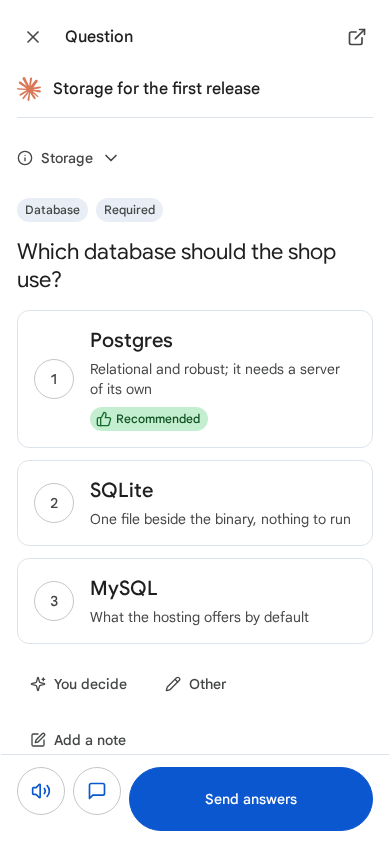
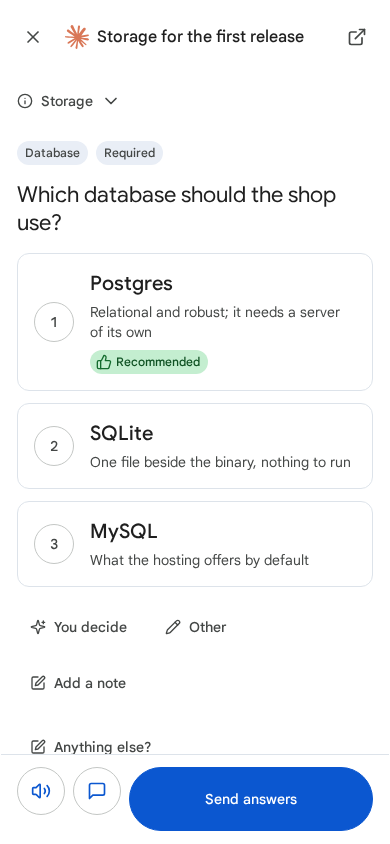
Chat and Tests: a roll never shows a line cut by an edge, the empty composer has no scrollbar, the question dialog names its chat, Change for this run opens no picker, Attach asks for no microphone
Found by run 6 of the device tests.

B-21 (Windows Chrome): the status line's fade led its glide. The new
line faded in on --ds-ease-out while it glided on --ds-ease-in-out, so
18 ms into a roll it was half there a whole line below its place, its
glyphs cut in half by the slot's bottom edge ("Reading Read 0 s" under
"Working"), and the old line stayed at nine tenths while half out at
the top. Both fades now run on the glide's own curve: a line is as clear
as it is in the slot. Frames on BrowserStack's Windows Chrome run at
60 Hz; a frame paused 5 % into the old roll looks like the run's
screenshot, the new one shows only "Working".

B-39 (Windows Chrome): the composer's height was its scrollHeight,
which leaves out the borders of a border-box field, so an empty line was
2px short of its text and Windows' classic scrollbar showed with its
arrows. The height now adds the borders (checked on BrowserStack: the
15px scrollbar goes).

B-38: the question dialog's bar said "Questions · 1 of 2" (the walk
over all chats) above "Question 1 of 5" (the batch). The bar now names
the chat whose questions these are, with its agent's mark, and how many
other chats wait after it ("+1 more chat", "+2 more chats"; nothing for
the only one). The session row under it is gone: the bar has the name.

B-36 (iPhone): Change for this run moved focus to the first select of
the settings, and iOS opened that select's picker by itself over the
sheet. Focus stays on the button, as a disclosure's does.
[…]

diff --git a/internal/web/static/js/askdialog.js b/internal/web/static/js/askdialog.js
@@ -95,6 +95,9 @@ function forgetDraft(askId) {
 /** forgetAskDraft lets the draft of an answered question go. */
 export function forgetAskDraft(askId) { forgetDraft(askId); }
 
+// chatsWord is "1 more chat", "2 more chats".
+function chatsWord(n) { return n + (n === 1 ? ' more chat' : ' more chats'); }
+
 // An answer as the dialog keeps it: what is sent (selected, other, note,
 // delegated), whether its fields are open, and whether the person has had
 // it in hand - changed it, or moved past it - which is what the card's
@@ -390,7 +393,7 @@ export function openAskDialog({ items, start = 0, watch, openChat, closed, more 
   }
 
   // bringQuestionUp scrolls a question to the top on a phone on its side,
-  // the chat and the batch's title and context a swipe above it.
+  // the batch's title and context a swipe above it.
   function bringQuestionUp() {
     if (!SHORT_SCREEN.matches) return;
     const scroller = shell.querySelector('.so-q-scroll');
@@ -584,6 +587,19 @@ export function openAskDialog({ items, start = 0, watch, openChat, closed, more 
 
   function questionsOf() { return askQuestions(item().ask); }
 
+  // waitingAfter is how many other chats have questions the walk comes to
+  // after this one: still open, and not answered from here already.
+  function waitingAfter(one) {
+    const chats = new Set();
+    for (const other of st.items.slice(st.at + 1)) {
+      if (other.chatId === one.chatId || other.ask.answered) continue;
+      const pending = pendingAnswer(other.chatId, other.ask.id);
+      if (pending && pending.state !== 'failed') continue;
+      chats.add(other.chatId);
+    }
+    return chats.size;
+  }
+
   // doubt is the connection line while what the dialog shows may be old -
   // connecting again, checking a quiet stream, offline - and null while it
   // is live, or polled and current. The page's first connect is no doubt:
@@ -613,23 +629,27 @@ export function openAskDialog({ items, start = 0, watch, openChat, closed, more 
     const q = questions[step];
     const last = step >= questions.length - 1;
     const session = one.session || {};
-    const counter = st.items.length > 1 ? (st.at + 1) + ' of ' + st.items.length : '';
+    const others = waitingAfter(one);
     const settled = st.phase === 'answered' || st.phase === 'elsewhere';
     const conn = settled ? null : doubt();
     st.connSaid = conn ? conn.kind + ':' + conn.words + ':' + st.phase : '';
     shell.toggleAttribute('data-stale', !!conn);
-    // The top bar: Close, where the walk is, and Open chat at its end; on a
-    // short screen the chat's name too, on one line, in place of the session
-    // row (so-question.css). The connection line comes under it while the
-    // connection is not live. The batch's title, when it has context, is the
-    // context's own row rather than a row of its own.
+    // The top bar: Close, whose questions these are - the chat's agent and
+    // name - and, when the walk goes on to other chats' questions after
+    // these, how many chats wait ("+1 more chat"); Open chat at its end.
+    // "Questions · 1 of 2" over "Question 1 of 5" counted two different
+    // things the same way (B-38). The connection line comes under it while
+    // the connection is not live. The batch's title, when it has context,
+    // is the context's own row rather than a row of its own.
     const title = session.title || 'Chat';
-    morph(shell, html`<div class="so-q-top" data-ds-key="top"><button class="ds-btn ds-btn--quiet ds-btn--icon so-q-close" type="button" data-action="close" aria-label="Close" data-tip="Close">${raw(icon('close', 20))}</button><span class="so-q-top-title">${counter ? 'Questions · ' + counter : 'Question'}</span><span class="so-q-top-session so-ellipsis" data-tip="${title}">${title}</span>${
+    morph(shell, html`<div class="so-q-top" data-ds-key="top"><button class="ds-btn ds-btn--quiet ds-btn--icon so-q-close" type="button" data-action="close" aria-label="Close" data-tip="Close">${raw(icon('close', 20))}</button><span class="so-q-top-mark" aria-hidden="true">${raw(agentMarkHtml(session.harness || '', 24))}</span><span class="so-q-top-title so-ellipsis" data-tip="${title}">${title}</span>${
+      others ? html`<span class="so-q-top-more">${'+' + chatsWord(others)}</span>` : ''
+    }${
       openChat ? html`<button class="ds-btn ds-btn--quiet ds-btn--icon so-q-open" type="button" data-action="open-chat" aria-label="Open the chat" data-tip="Open the chat">${raw(icon('external', 20))}</button>` : ''
     }</div>${
       conn ? connHtml(conn) : ''
     }
-<div class="so-q-scroll" data-ds-key="${'scroll:' + ask.id}"><div class="so-q-session"><span class="so-mark">${raw(agentMarkHtml(session.harness || '', 24))}</span><span class="so-q-session-text"><span class="so-q-session-title so-break">${title}</span></span></div>${settled ? doneHtml(ask) : html`<div class="so-q-body so-ask-body" data-ds-key="${'q:' + ask.id + ':' + step}"${st.phase === 'sent' ? html` data-state="pending"` : ''}>${
+<div class="so-q-scroll" data-ds-key="${'scroll:' + ask.id}">${settled ? doneHtml(ask) : html`<div class="so-q-body so-ask-body" data-ds-key="${'q:' + ask.id + ':' + step}"${st.phase === 'sent' ? html` data-state="pending"` : ''}>${
       step === 0 && payload.context ? contextHtml('ctx', payload.context, payload.title || 'About these questions', !!payload.title)
         : step === 0 && payload.title ? html`<p class="so-ask-title">${payload.title}</p>` : ''
     }${st.refused ? html`<div class="ds-alert ds-alert--error so-refused" role="alert">${raw(icon('alertCircle', 20))}<span class="ds-alert__text">${'Your answer was not taken: ' + (st.refused.error || 'the server refused it.') + ' Send it again, or change it first.'}</span></div>` : ''}${q ? questionHtml(q, questions.length, step, last) : ''}${

diff --git a/internal/web/static/css/so-question.css b/internal/web/static/css/so-question.css
@@ -12,14 +12,13 @@
  *                        moment after a new question is drawn (its buttons
  *                        take no tap), [data-stale] while the connection is
  *                        not live (the question is dimmed)
- *   .so-q-top            Close, the step the walk is at, Open chat (an
- *                        icon) at its end, and on a short screen the chat's
- *                        name on one line (.so-q-top-session)
+ *   .so-q-top            Close, the chat whose questions these are (its
+ *                        agent's mark and name on one line), how many other
+ *                        chats wait after it (.so-q-top-more, "+1 more
+ *                        chat") and Open chat (an icon) at its end
  *   .so-q-conn           the connection line under the top bar (a DS alert)
- *   .so-q-scroll         the session, the question, its options, the field
- *                        of one's own, and the progress line
- *   .so-q-session        the agent's mark and the title (in full, on as many
- *                        lines as it takes)
+ *   .so-q-scroll         the question, its options, the field of one's
+ *                        own, and the progress line
  *   .so-q-body           the question; [data-state="pending"] while its
  *                        answer is on its way
  *   .so-q-option         an option: a DS interactive card as a toggle
@@ -56,8 +55,7 @@
 }
 
 .so-q-shell:focus,
-.so-q-text:focus,
-.so-q-session-title:focus {
+.so-q-text:focus {
   outline: none;
 }
 
@@ -81,26 +79,30 @@
   padding-right: calc(var(--so-q-top-inset) + env(safe-area-inset-right, 0px));
 }
 
-.so-q-top-title {
+/* The chat's name takes the bar's room and gives way first, cut with an
+   ellipsis (its tip has it whole); the mark and the count keep theirs. */
+.so-q-top-mark {
   flex: none;
+  display: inline-flex;
+}
+
+.so-q-top-title {
+  flex: 1 1 0;
+  min-width: 0;
   color: var(--ds-text);
   font: var(--ds-font-subtitle);
+}
+
+.so-q-top-more {
+  flex: none;
+  color: var(--ds-text-2);
+  font: var(--ds-font-label);
 }
 
 /* The bar's buttons keep a finger's size: the name beside them gives way
    (at 360 with a keyboard up, Close shrank to 41px with it). */
 .so-q-top > .ds-btn {
   flex: none;
-}
-
-/* The chat's name in the bar, only where the session row gives way (a
-   short screen, below). */
-.so-q-top-session {
-  display: none;
-  flex: 1 1 0;
-  min-width: 0;
-  color: var(--ds-text-2);
-  font: var(--ds-font-label);
 }
 
 .so-q-open {
@@ -140,27 +142,6 @@
   padding-left: max(calc(var(--so-q-inset) + env(safe-area-inset-left, 0px)), calc((100% - var(--so-question-measure)) / 2));
   padding-right: max(calc(var(--so-q-inset) + env(safe-area-inset-right, 0px)), calc((100% - var(--so-question-measure)) / 2));
 }
-
-.so-q-session {
-  display: flex;
-  align-items: center;
-  gap: var(--ds-space-3);
-  padding-bottom: var(--ds-space-4);
-  border-bottom: 1px solid var(--ds-line);
-}
-
-.so-q-session-text {
-  flex: 1 1 auto;
-  min-width: 0;
-  display: flex;
-  flex-direction: column;
-}
-
-.so-q-session-title {
-  color: var(--ds-text);
-  font: var(--ds-font-subtitle);
-}
-
 
 .so-q-body {
   display: flex;
@@ -410,7 +391,7 @@
 
 /* A phone on its side in a car mount has room for the question and its
    options or for the chrome around them, not both: the bars shrink to a
-   finger's size and the session is one line. */
+   finger's size. */
 @media (max-height: 500px) {
   .so-q-top {
     padding-top: calc(var(--ds-space-1) + env(safe-area-inset-top, 0px));
@@ -424,15 +405,6 @@
 
   .so-q-body {
     gap: var(--ds-space-2);
-  }
-
-  /* The session row is the bar's one line of name instead. */
-  .so-q-session {
-    display: none;
-  }
-
-  .so-q-top-session {
-    display: block;
   }
 
   .so-q-text {
@@ -491,11 +463,11 @@
 
 /* A phone on its side with its keyboard up has a strip of screen left
    (keybar.js data-so-short): the question, the field being typed into and
-   the way on. Close, the session, the context and the step come back with
+   the way on. The bar, the context and the step come back with
    the keyboard's going, and so do Read aloud, Ask back and Back, and the
    connection line (the question stays dimmed while it is not live). The
    field is brought into the strip as the keyboard comes (askdialog.js). */
-.so-touch[data-so-short] :is(.so-q-top, .so-q-conn, .so-q-session, .so-q-step, .so-q-read, .so-ask-back, .so-q-back) {
+.so-touch[data-so-short] :is(.so-q-top, .so-q-conn, .so-q-step, .so-q-read, .so-ask-back, .so-q-back) {
   display: none;
 }
 

diff --git a/internal/web/static/js/composer.js b/internal/web/static/js/composer.js
@@ -14,7 +14,7 @@
 //     connection is back, exactly once, and is on screen as "Not sent yet"
 //     until then.
 
-import { api, el, toast, errorMessage, clientKey, onWake, alertDialog, openDialog } from './api.js';
+import { api, el, toast, errorMessage, clientKey, onWake, alertDialog, openDialog, ANY_FILE } from './api.js';
 import { DS, html, raw, icon, morph, faces, showOverlay, hideOverlay } from './ui.js';
 import { combobox } from './combobox.js';
 import * as harnesses from './harnesses.js';
@@ -287,7 +287,7 @@ export function mountComposer(host, ctx) {
     <p class="so-composer__hint ds-meta" id="${'composer-hint-' + id}" role="status"></p>
     <div class="so-composer__bar">
       <button class="ds-btn ds-btn--quiet ds-btn--icon so-composer__attach" type="button" data-action="attach" aria-label="Attach files" data-tip="Attach files">${raw(icon('plus', 20))}</button>
-      <input class="so-composer__picker" type="file" multiple hidden tabindex="-1" aria-hidden="true">
+      <input class="so-composer__picker" type="file" multiple${ANY_FILE ? html` accept="${ANY_FILE}"` : ''} hidden tabindex="-1" aria-hidden="true">
       <button class="ds-btn ds-btn--quiet ds-btn--sm so-composer__model" type="button" data-action="model" aria-haspopup="menu" aria-expanded="false"><span class="so-composer__model-text so-ellipsis"><span class="so-composer__model-name"></span><span class="so-composer__model-effort"></span></span>${raw(icon('chevronDown', 16))}</button>
       <button class="ds-btn ds-btn--quiet ds-btn--icon ds-btn--sm so-info so-composer__usage" type="button" data-action="usage" aria-label="Usage of this chat" data-tip="Usage of this chat" hidden>${raw(icon('info', 18))}</button>
       <span class="so-composer__gap" aria-hidden="true"></span>
@@ -337,8 +337,17 @@ export function mountComposer(host, ctx) {
       input.style.height = '';
       return;
     }
+    // The field is border-box and scrollHeight leaves its borders out: a
+    // height of scrollHeight alone was 2px short of the text, and a
+    // platform with classic scrollbars (Windows) drew one, arrows and
+    // all, beside an empty line (B-39). Its overflow stays the CSS's
+    // (auto): its cap follows the keyboard (--so-composer-max), and a
+    // field that is capped meanwhile must still scroll.
+    const style = getComputedStyle(input);
+    const borders = style.boxSizing === 'border-box'
+      ? (parseFloat(style.borderTopWidth) || 0) + (parseFloat(style.borderBottomWidth) || 0) : 0;
     input.style.height = 'auto';
-    input.style.height = input.scrollHeight + 'px';
+    input.style.height = Math.ceil(input.scrollHeight + borders) + 'px';
   }
 
   input.addEventListener('input', () => {

diff --git a/internal/web/static/js/wheel.js b/internal/web/static/js/wheel.js
@@ -15,8 +15,9 @@
 // two glide up together by one line (the slot's --so-wheel-travel, 100% of
 // a line's own height) on --ds-ease-in-out over --ds-dur-slow, like one
 // strip: the old line leaves through the slot's soft top edge and fades
-// out on the way (--ds-ease-in: it stays until it is at the edge), the new
-// one comes up through the soft bottom edge and fades in (--ds-ease-out).
+// out on the way, the new one comes up through the soft bottom edge and
+// fades in - each as clear as it is in the slot, its fade on the glide's
+// own curve, so no frame shows a line cut by an edge at full strength.
 // Only translate and opacity: the text stays sharp all the way. Every line
 // is shown for at least --ds-hold-status: a change during the hold waits,
 // and a later one takes the place of the waiting one (which then never
@@ -92,7 +93,13 @@ function travelOf(slot) {
 /**
  * roll is one line's part of the turn: the glide on --ds-ease-in-out over
  * --ds-dur-slow - the same for the line that goes and the one that comes,
- * so the two move as one strip - and the opacity along with it.
+ * so the two move as one strip - and the opacity along with it, on the
+ * same curve: a line is as clear as it is in the slot. The fade used to
+ * lead the glide (the new line on --ds-ease-out, the old on --ds-ease-in):
+ * 18 ms in, the new line was half there while still a whole line below,
+ * its glyphs cut in half by the slot's bottom edge, and halfway the old
+ * one was still at nine tenths, cut by the top edge ("Reading Read 0 s"
+ * cut off under "Working", B-21).
  */
 function roll(line, slot, from, to, opacity, delay, fill) {
   const duration = M.motionDuration(slot, '--ds-dur-slow');
@@ -100,7 +107,7 @@ function roll(line, slot, from, to, opacity, delay, fill) {
     duration, delay, easing: M.motionEasing(slot, '--ds-ease-in-out'), fill,
   });
   const fade = line.animate([{ opacity: opacity[0] }, { opacity: opacity[1] }], {
-    duration, delay, easing: M.motionEasing(slot, opacity[1] ? '--ds-ease-out' : '--ds-ease-in'), fill,
+    duration, delay, easing: M.motionEasing(slot, '--ds-ease-in-out'), fill,
   });
   return Promise.all([glide.finished, fade.finished]).then(() => {}, () => {});
 }

diff --git a/internal/web/static/js/api.js b/internal/web/static/js/api.js
@@ -47,6 +47,19 @@ export function errorMessage(err) {
   return err.message || String(err);
 }
 
+// ANY_FILE is the accept of a file input that takes any file. Left out,
+// Chrome on Android (and every browser built on it) offers its sound
+// recorder beside the files and asks for the microphone before it shows
+// the picker at all ("Allow Chrome to record audio?"), because an input
+// with no accept takes audio too. Naming images and videos keeps the
+// camera, no audio type leaves the recorder out, and
+// application/octet-stream, the generic type, makes Chrome put no type
+// filter on the picker: every file can still be chosen
+// (SelectFileDialog.java: acceptsType, GENERIC_TYPE). Elsewhere it is
+// left out: a desktop picker would start filtered to these types.
+export const ANY_FILE = /Android/.test(navigator.userAgent) && /Chrome\//.test(navigator.userAgent)
+  ? 'image/*,video/*,application/octet-stream' : null;
+
 export function el(tag, attrs = {}, ...children) {
   const node = document.createElement(tag);
   for (const [key, value] of Object.entries(attrs)) {

diff --git a/internal/web/static/css/so-motion.css b/internal/web/static/css/so-motion.css
@@ -42,9 +42,9 @@
  * --so-shimmer-peak (how much of it shows at its crest).
  *
  * Choreography (js/wheel.js): both lines glide over --ds-dur-slow on
- * --ds-ease-in-out, together; the old one fades on --ds-ease-in (it holds
- * until it is at the edge), the new one on --ds-ease-out. One line apart,
- * they never lie on each other. Only translate and opacity, so
+ * --ds-ease-in-out, together, and fade on the same curve, so each is as
+ * clear as it is in the slot: never a line cut by an edge at full
+ * strength. One line apart, they never lie on each other. Only translate and opacity, so
  * the text is as sharp in motion as at rest. A line still rolling in when
  * the next change comes finishes its roll during the hold, then the two go
  * as one strip. The shimmer's wave reuses

diff --git a/internal/web/static/js/testsforms.js b/internal/web/static/js/testsforms.js
@@ -711,9 +711,11 @@ export function mount(ctx) {
       morph(box, html`${ROLES.map((spec) => roleSection('rs', spec, s[spec.key] || {}))}<section class="ds-subsection so-tests__stack" aria-labelledby="rsHowTitle"><h3 class="ds-card__subtitle" id="rsHowTitle">How it goes</h3>${howRunsGo('rs', s)}</section>`);
       $('runSummary').textContent = summaryWords(s);
     } else {
+      // Focus stays on the button, as a disclosure's does: the settings
+      // follow it, the next Tab reaches them. Focus moved to their first
+      // select opened that select's picker by itself on iOS, over the
+      // sheet, until the next tap (B-36).
       M.enter(box, 'fade');
-      const first = box.querySelector('select');
-      if (first) first.focus();
     }
     update();
   });

diff --git a/internal/web/static/js/transfer.js b/internal/web/static/js/transfer.js
@@ -14,7 +14,7 @@
 // file. A button, a file dropped on the pane and an image pasted into it all
 // take the same road.
 
-import { el, toast, errorMessage } from './api.js';
+import { el, toast, errorMessage, ANY_FILE } from './api.js';
 import { DS, M, showOverlay, hideOverlay } from './ui.js';
 import { copyText, forgetRefusal, pasteClipboard } from './term.js';
 
@@ -193,7 +193,7 @@ export function mountTransfer(ctx) {
     ctx.focus();
   }
 
-  const picker = el('input', { type: 'file', multiple: true, hidden: true, 'aria-hidden': 'true' });
+  const picker = el('input', { type: 'file', multiple: true, accept: ANY_FILE, hidden: true, 'aria-hidden': 'true' });
   picker.addEventListener('change', () => {
     const files = [...picker.files];
     picker.value = '';

diff --git a/docs/design/HOME.md b/docs/design/HOME.md
@@ -540,9 +540,13 @@ session) and Answer - never a button inside a `role=button`. The empty state off
 
 A `dialog.sheet.question-sheet` opened with `showModal()` (keyboard.js needs a modal dialog),
 full screen below 900 px and on `html.touch`, otherwise up to 760 px wide. A queue of the
-question sessions, oldest first (the one asked for first), "2 of 3" with Previous/Next.
+question sessions, oldest first (the one asked for first).
 
-- Top: the session (mark, title, folder) and a large **Open session** button.
+- Top bar: Close, the chat whose questions these are (its agent's mark and its name, cut with an
+  ellipsis), how many other chats wait after it as a small hint ("+1 more chat", "+2 more
+  chats"; nothing when it is the only one) and **Open the chat**. It names no "1 of 2": that
+  counted the chats the way "Question 1 of 5" counts a batch's questions, and read as a
+  contradiction of it (B-38).
 - `context` (the digest), then the question `text` in large type, `detail` when there is one.
 - The options as full-width buttons, at least 64 px high, 20 px type, the description under the
   label; a recommended option is marked. They are toggle buttons (`aria-pressed`, no radio role).

diff --git a/docs/design/AGENT-HOST.md b/docs/design/AGENT-HOST.md
@@ -1214,7 +1214,9 @@ after reading it is drawn under it (`chatfold.js` `takenUp`).
 tapped notification) walks the open questions of every asking chat, oldest first, and is live:
 an answer from another device settles the one it shows ("Answered on another device"), and at the
 end of the walk it takes up what was asked while it went, so a follow-up asked right after an
-answer is the next step rather than a dialog that closed. A question it is asked for that the page
+answer is the next step rather than a dialog that closed. Its top bar names the chat whose
+questions it shows, with how many other chats wait after it ("+1 more chat"); the body counts
+the questions of the batch ("Question 1 of 5"). A question it is asked for that the page
 cannot read yet - no connection, or a chat the page has not heard of - waits for the connection
 (at most three tries in two minutes) and opens that question, never another chat's; a chat that
 asks nothing any more says "Nothing is waiting for an answer any more". For 600 ms after a
